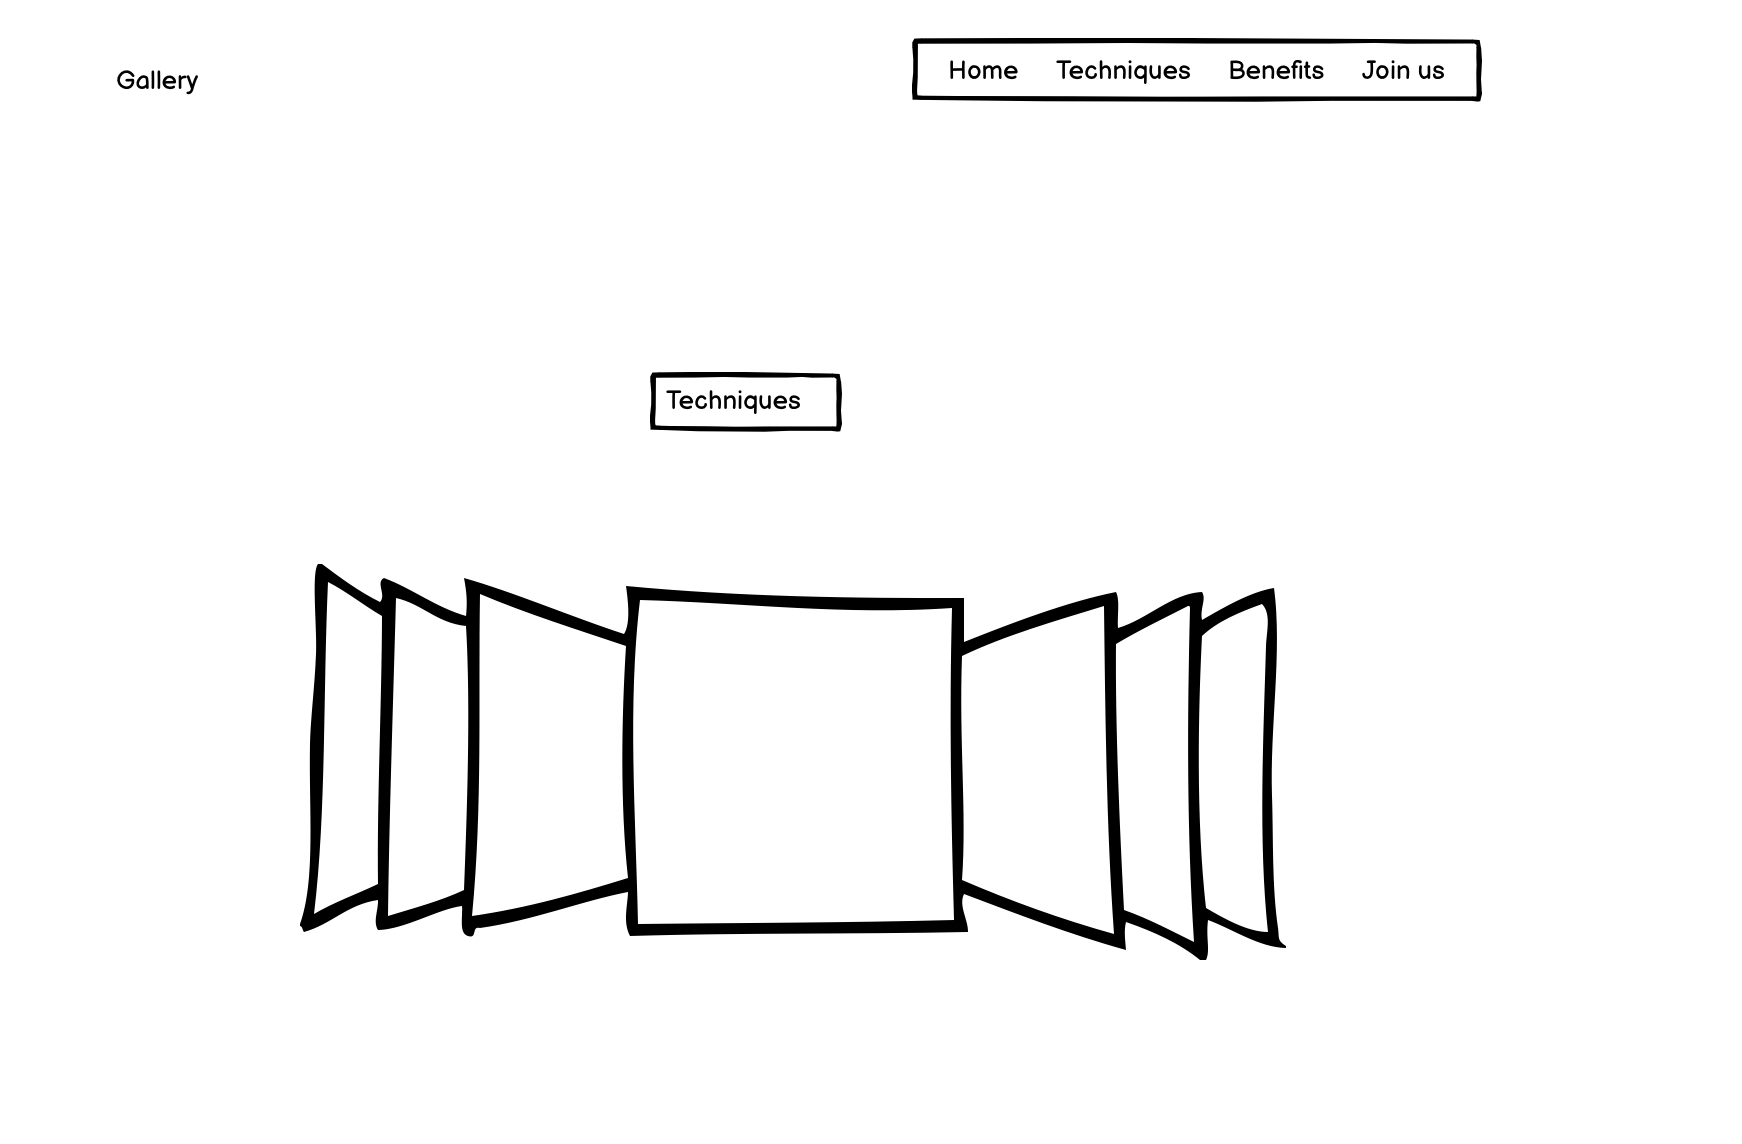
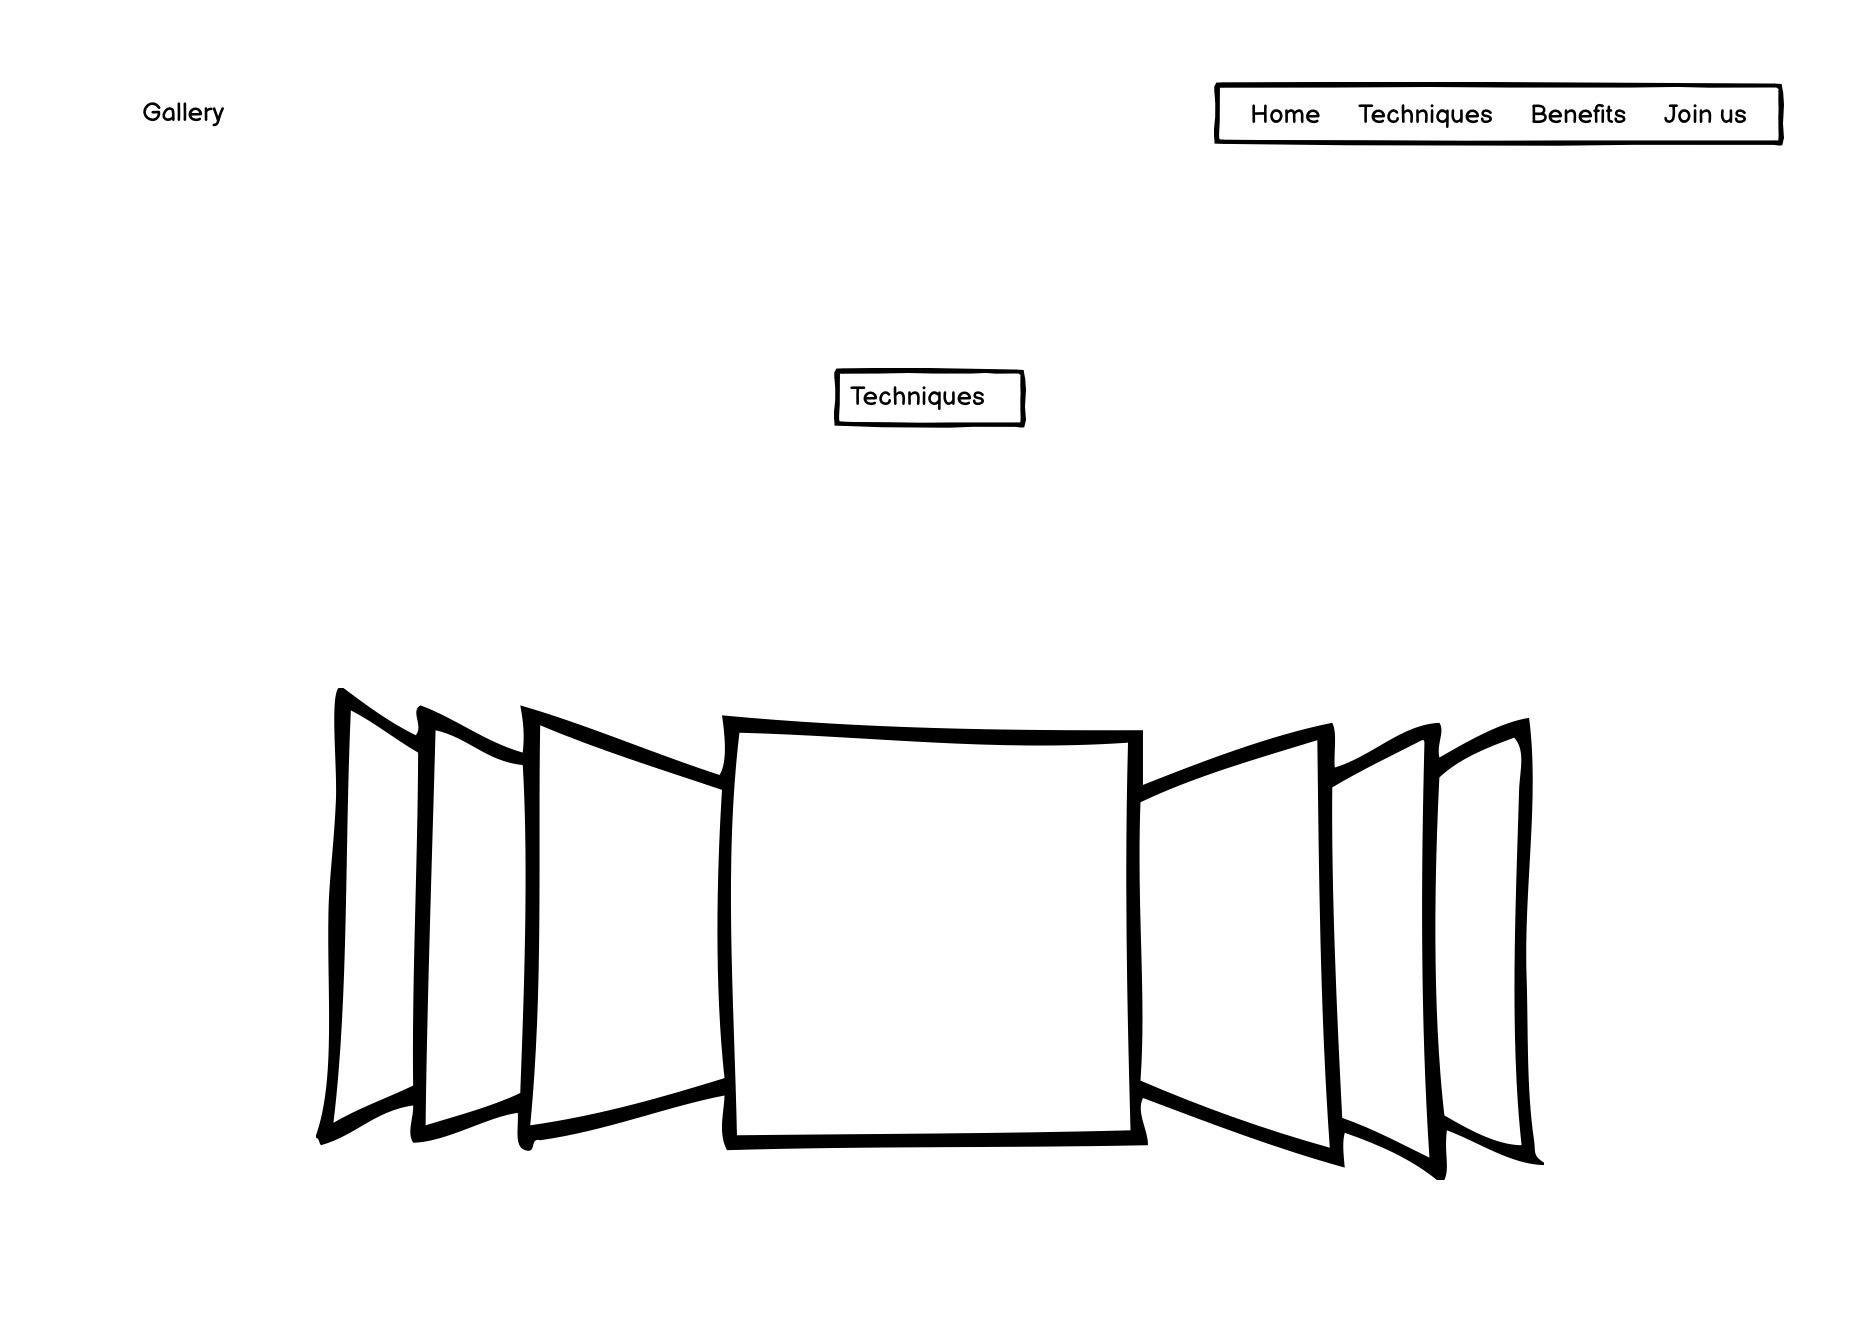
Change cards margind in plans page

diff --git a/assets/css/style.css b/assets/css/style.css
@@ -505,30 +505,53 @@ hr {
     background-image: url(assets/images/Membership-1.png)
 }
 
-.col {
-    margin-top: 200px;
+.cards {
+    margin-top: 400px;
     position: absolute;
+    display: inline;
     margin-left: 60px;
 }
 
 .card1 {
-    background-image: url(assets/images/Membership-1.png)
+    background-image: url(/assets/images/Membership-1.png)
 }
 
 .card2 {
-    background-image: url(assets/images/Membership-2.png)
+    background-image: url(/assets/images/Membership-2.png)
 }
 
 .card3 {
-    background-image: url(assets/images/Membership-3.png)
+    background-image: url(/assets/images/Membership-3.png)
 }
 
 .card4 {
-    background-image: url(assets/images/Membership-4.png)
+    background-image: url(/assets/images/Membership-4.png)
 }
 
 .card:hover {
     transform: translateY(-10px);
+}
+
+.cards-text {
+    font-size: 30px;
+    display: flex;
+    position: absolute;
+    margin-top: 150px;
+    margin-left: 500px;
+    background-color: #a8c082;
+    color: #fff;
+    width: 400px;
+    padding-top: 20px;
+    border-radius: 20px;
+}
+
+.cards-text > h2 {
+    color: #fff;
+    text-transform: none;
+    text-align: center;
+    font-size: 80%;
+    margin-bottom: 20px;
+    margin-left: 20px;
 }
 
 /* thank-you */

diff --git a/plans.html b/plans.html
@@ -38,13 +38,19 @@
             </ul>
         </nav>
     </header>
+
+    <!-- plan cards-->
     <section class="form-section">
-       <div class="col">
+       <div class="cards">
         <div class="card card1"></div>
         <div class="card card2"></div>
         <div class="card card3"></div>
         <div class="card card4"></div>
        </div> 
+       <div class="cards-text">
+        <h2>Start our 2 month free trial!
+        </h2>
+    </div>
     </section>
      <!-- footer -->
     

diff --git a/README.md b/README.md
@@ -106,10 +106,13 @@ HTML and CSS were used to develop this website.
 ![bug-1](/assets/images/Bug-1.png)
 
 - Text not centered in form
-![bug-2](/assets/images/Bug-2.png)
+![bug-2](/assets/images/bug-button.png)
+Thanks to the Dev Tool I figured out the problem was display:block that had to be changed, for example, into display:inline.
+![bug-2-fixed](/assets/images/bug-button2.png)
 
 - Space before "Pillars" section
 ![bug-3](/assets/images/Bug-3.png)
+
 ## Resolved Bugs
 - "Join us" remains underlined when not selected (in Plans page)
 ![bug-4](/assets/images/bug-4.png)
